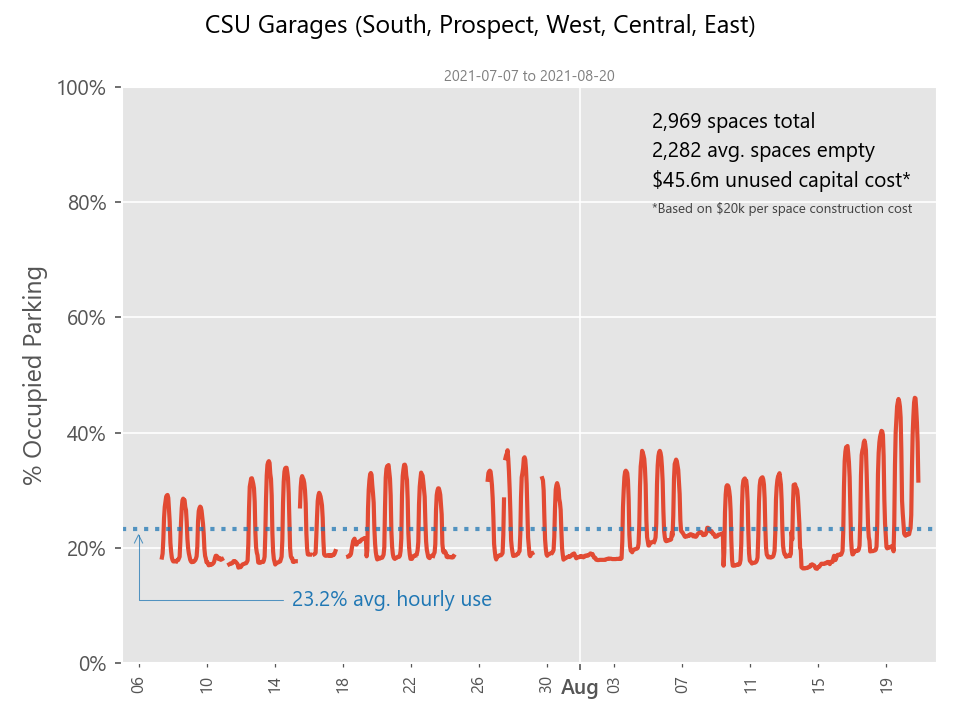
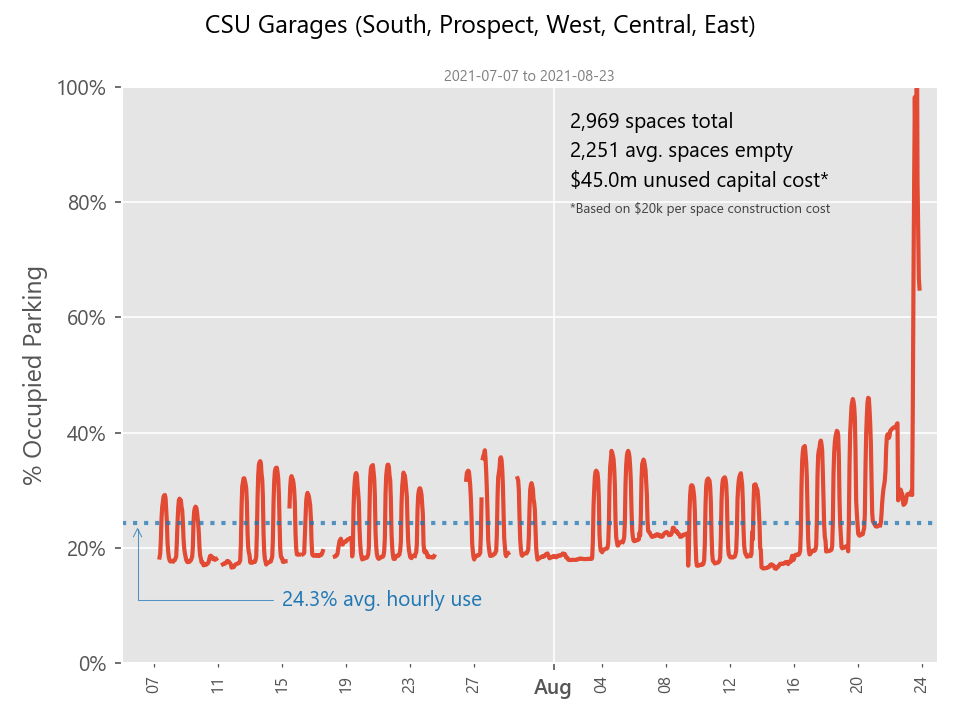
Scrape update 8-23 - first day of school

diff --git a/charts.py b/charts.py
@@ -14,16 +14,16 @@ cols = df.columns
 
 # plotter
 select_col = [field for field in cols if 'spaces' in field]
-parking_total = sum([611, 291, 600, 867, 600])  # total parking capacity per facility found on website in order of
+capacity_total = sum([611, 291, 600, 867, 600])  # total parking capacity per facility found on website in order of
 # data,i.e. 'South', 'Prospect', 'West', 'Central', 'East'
-plotdf = df[select_col].copy()
-plotdf['percent_use'] = 1 - (plotdf.sum(axis=1) / parking_total)  # get percent used
-plotdf['total_open'] = plotdf.iloc[:, 0:-1].sum(axis=1)  # get percent open
-avg_empty = plotdf['total_open'].mean()
-construction_cost = avg_empty * 20000 / 1000000  # cost of empty spaces in millions
+plot_df = df[select_col].copy()
+plot_df['total_open'] = plot_df.sum(axis=1) # total number of open spaces in feed
+plot_df['percent_use'] = 1 - (plot_df.total_open / capacity_total)  # get inverse of percent open (a.k.a percent in use)
+avg_empty = plot_df['total_open'].mean()  # average number of open spaces available
+construction_cost = avg_empty * 20000 / 1000000  # cost of empty spaces in millions dollars
 
-# resample the data to 1 hour increments. recode to whatever is best for you scheduling
-hourlymins = plotdf.resample('1H').max()
+# resample the data to 1 hour increments for more consistent sampling in case scrapes are missed
+hourlymins = plot_df.resample('1H').max()
 
 # plot the final column percentages
 fig, ax = plt.subplots()
@@ -51,11 +51,11 @@ ax.set_ylabel('% Occupied Parking')
 ax.set_ylim(0, 1)
 ax.yaxis.set_major_formatter('{x:.0%}')
 
-plt.text(.65, .825, f'{parking_total:,d}' + ' spaces total' + '\n'
+plt.text(.55, .825, f'{capacity_total:,d}' + ' spaces total' + '\n'
          + f'{avg_empty:,.0f} avg. spaces empty' + '\n'
          + f'${construction_cost:.1f}m unused capital cost*',
          ha='left', linespacing=1.5, transform=ax.transAxes, )
-plt.text(.65, .78, '*Based on $20k per space construction cost', color='.25',
+plt.text(.55, .78, '*Based on $20k per space construction cost', color='.25',
          ha='left', fontsize=6.5, linespacing=1.5, transform=ax.transAxes, )
 
 average_use = hourlymins['percent_use'].mean()
